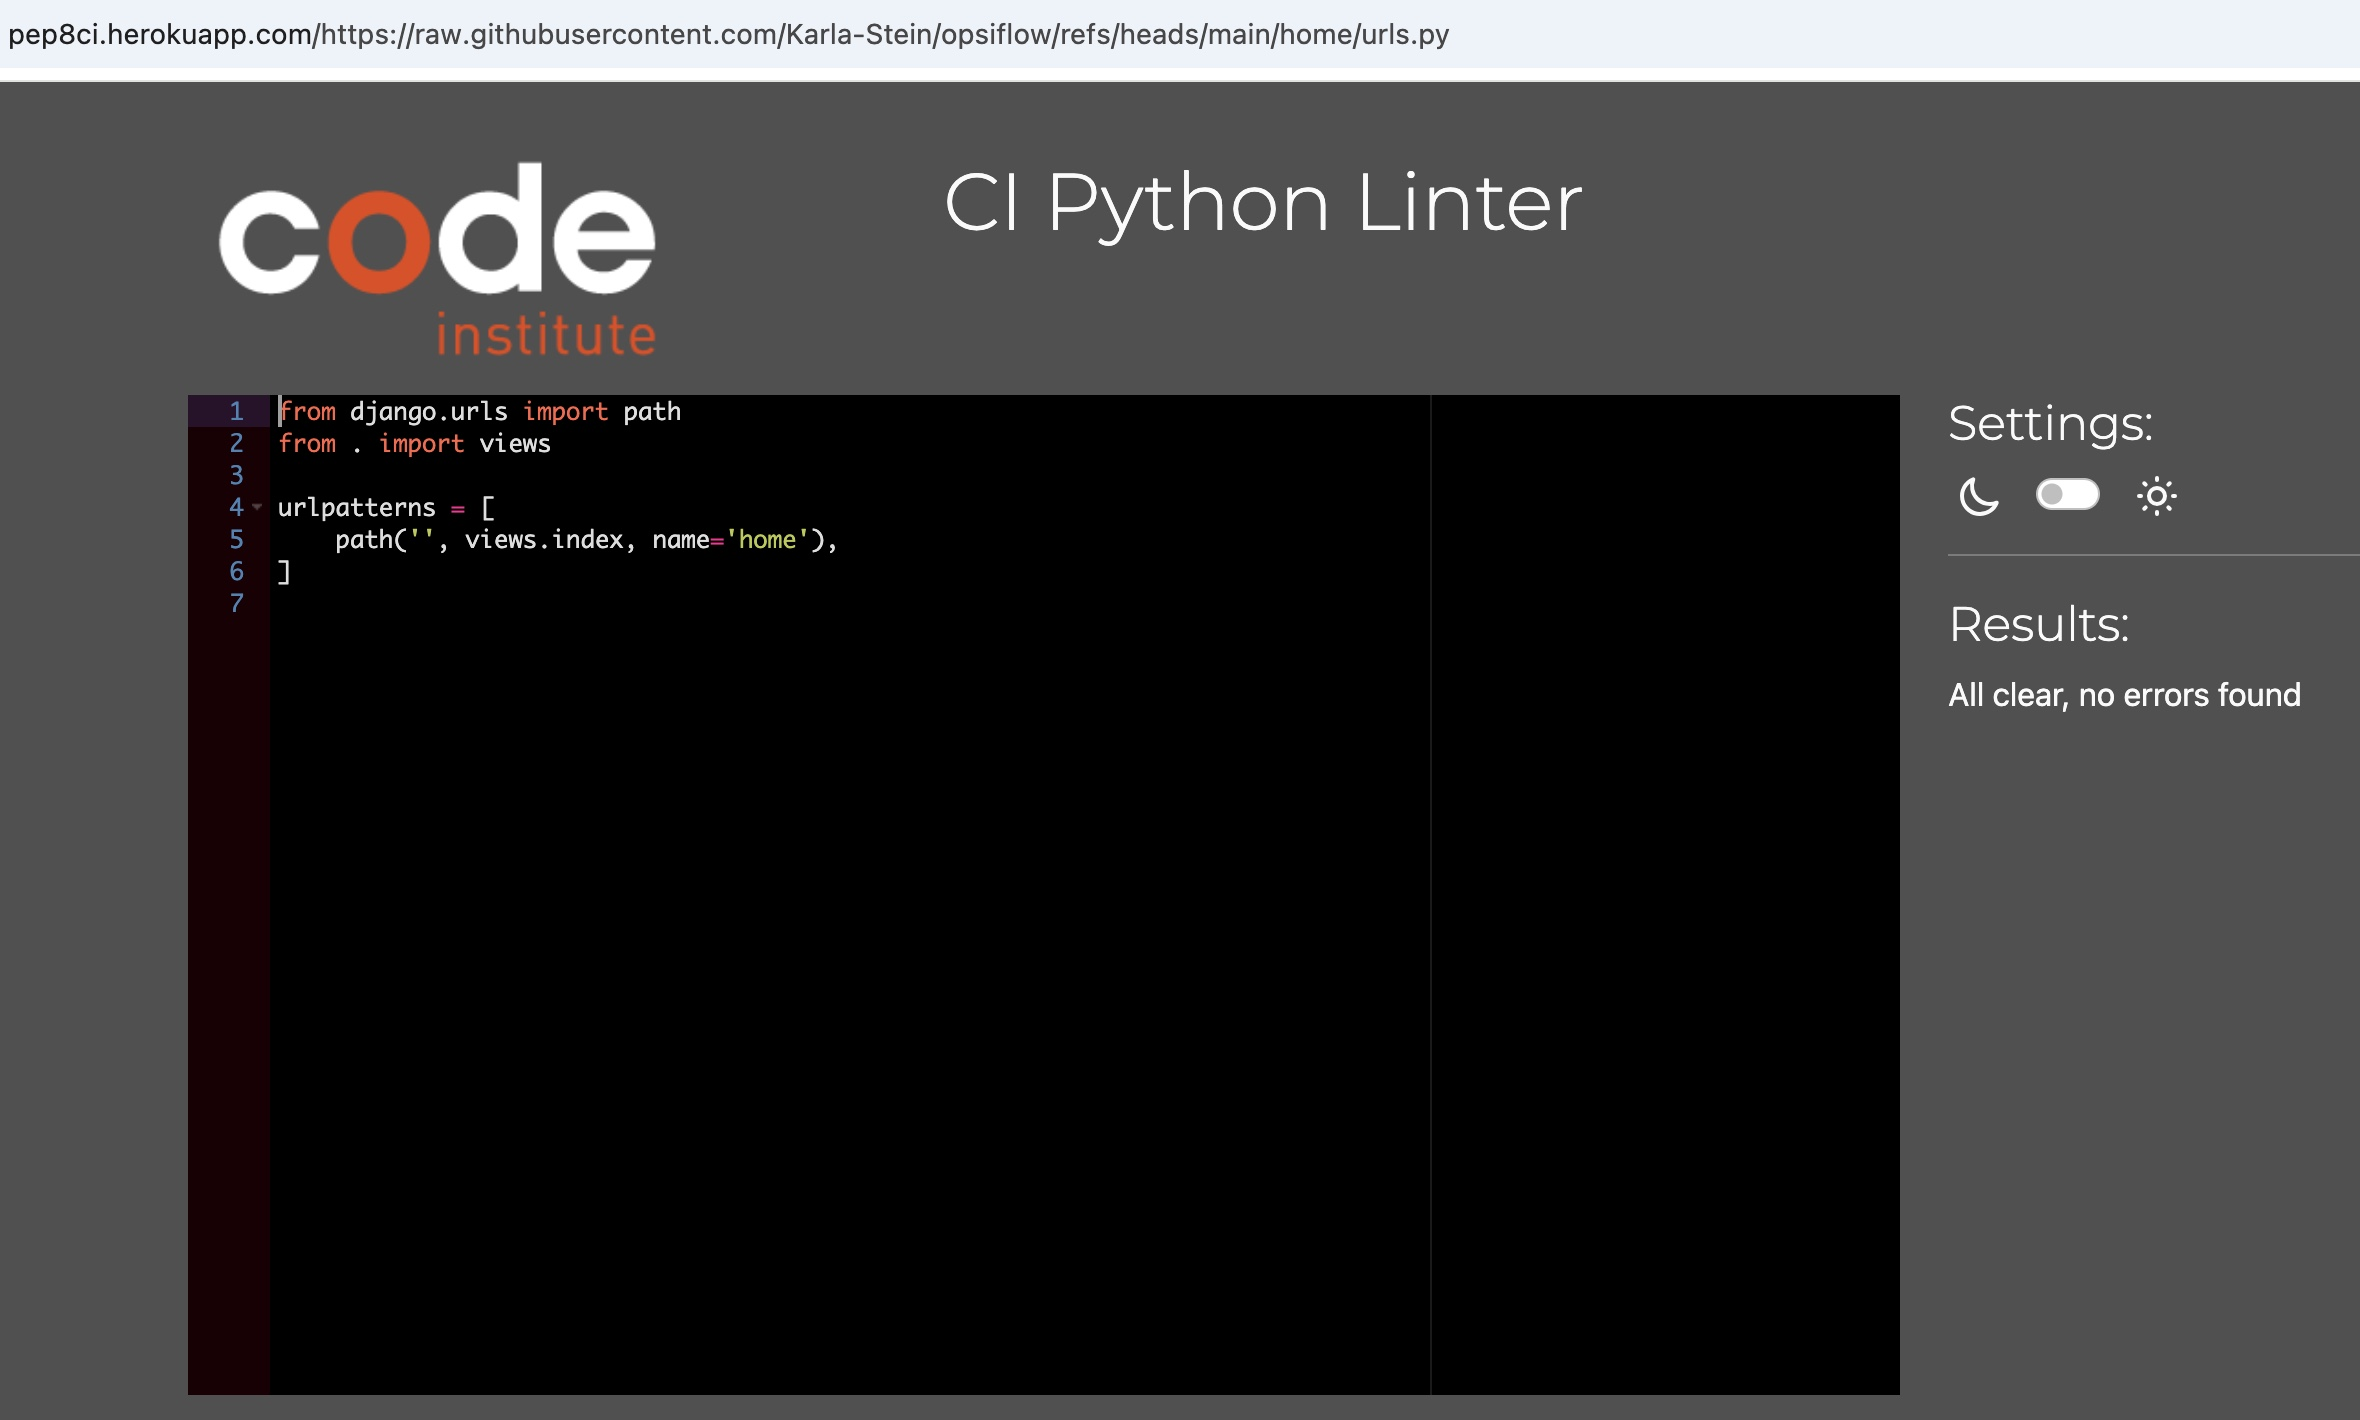
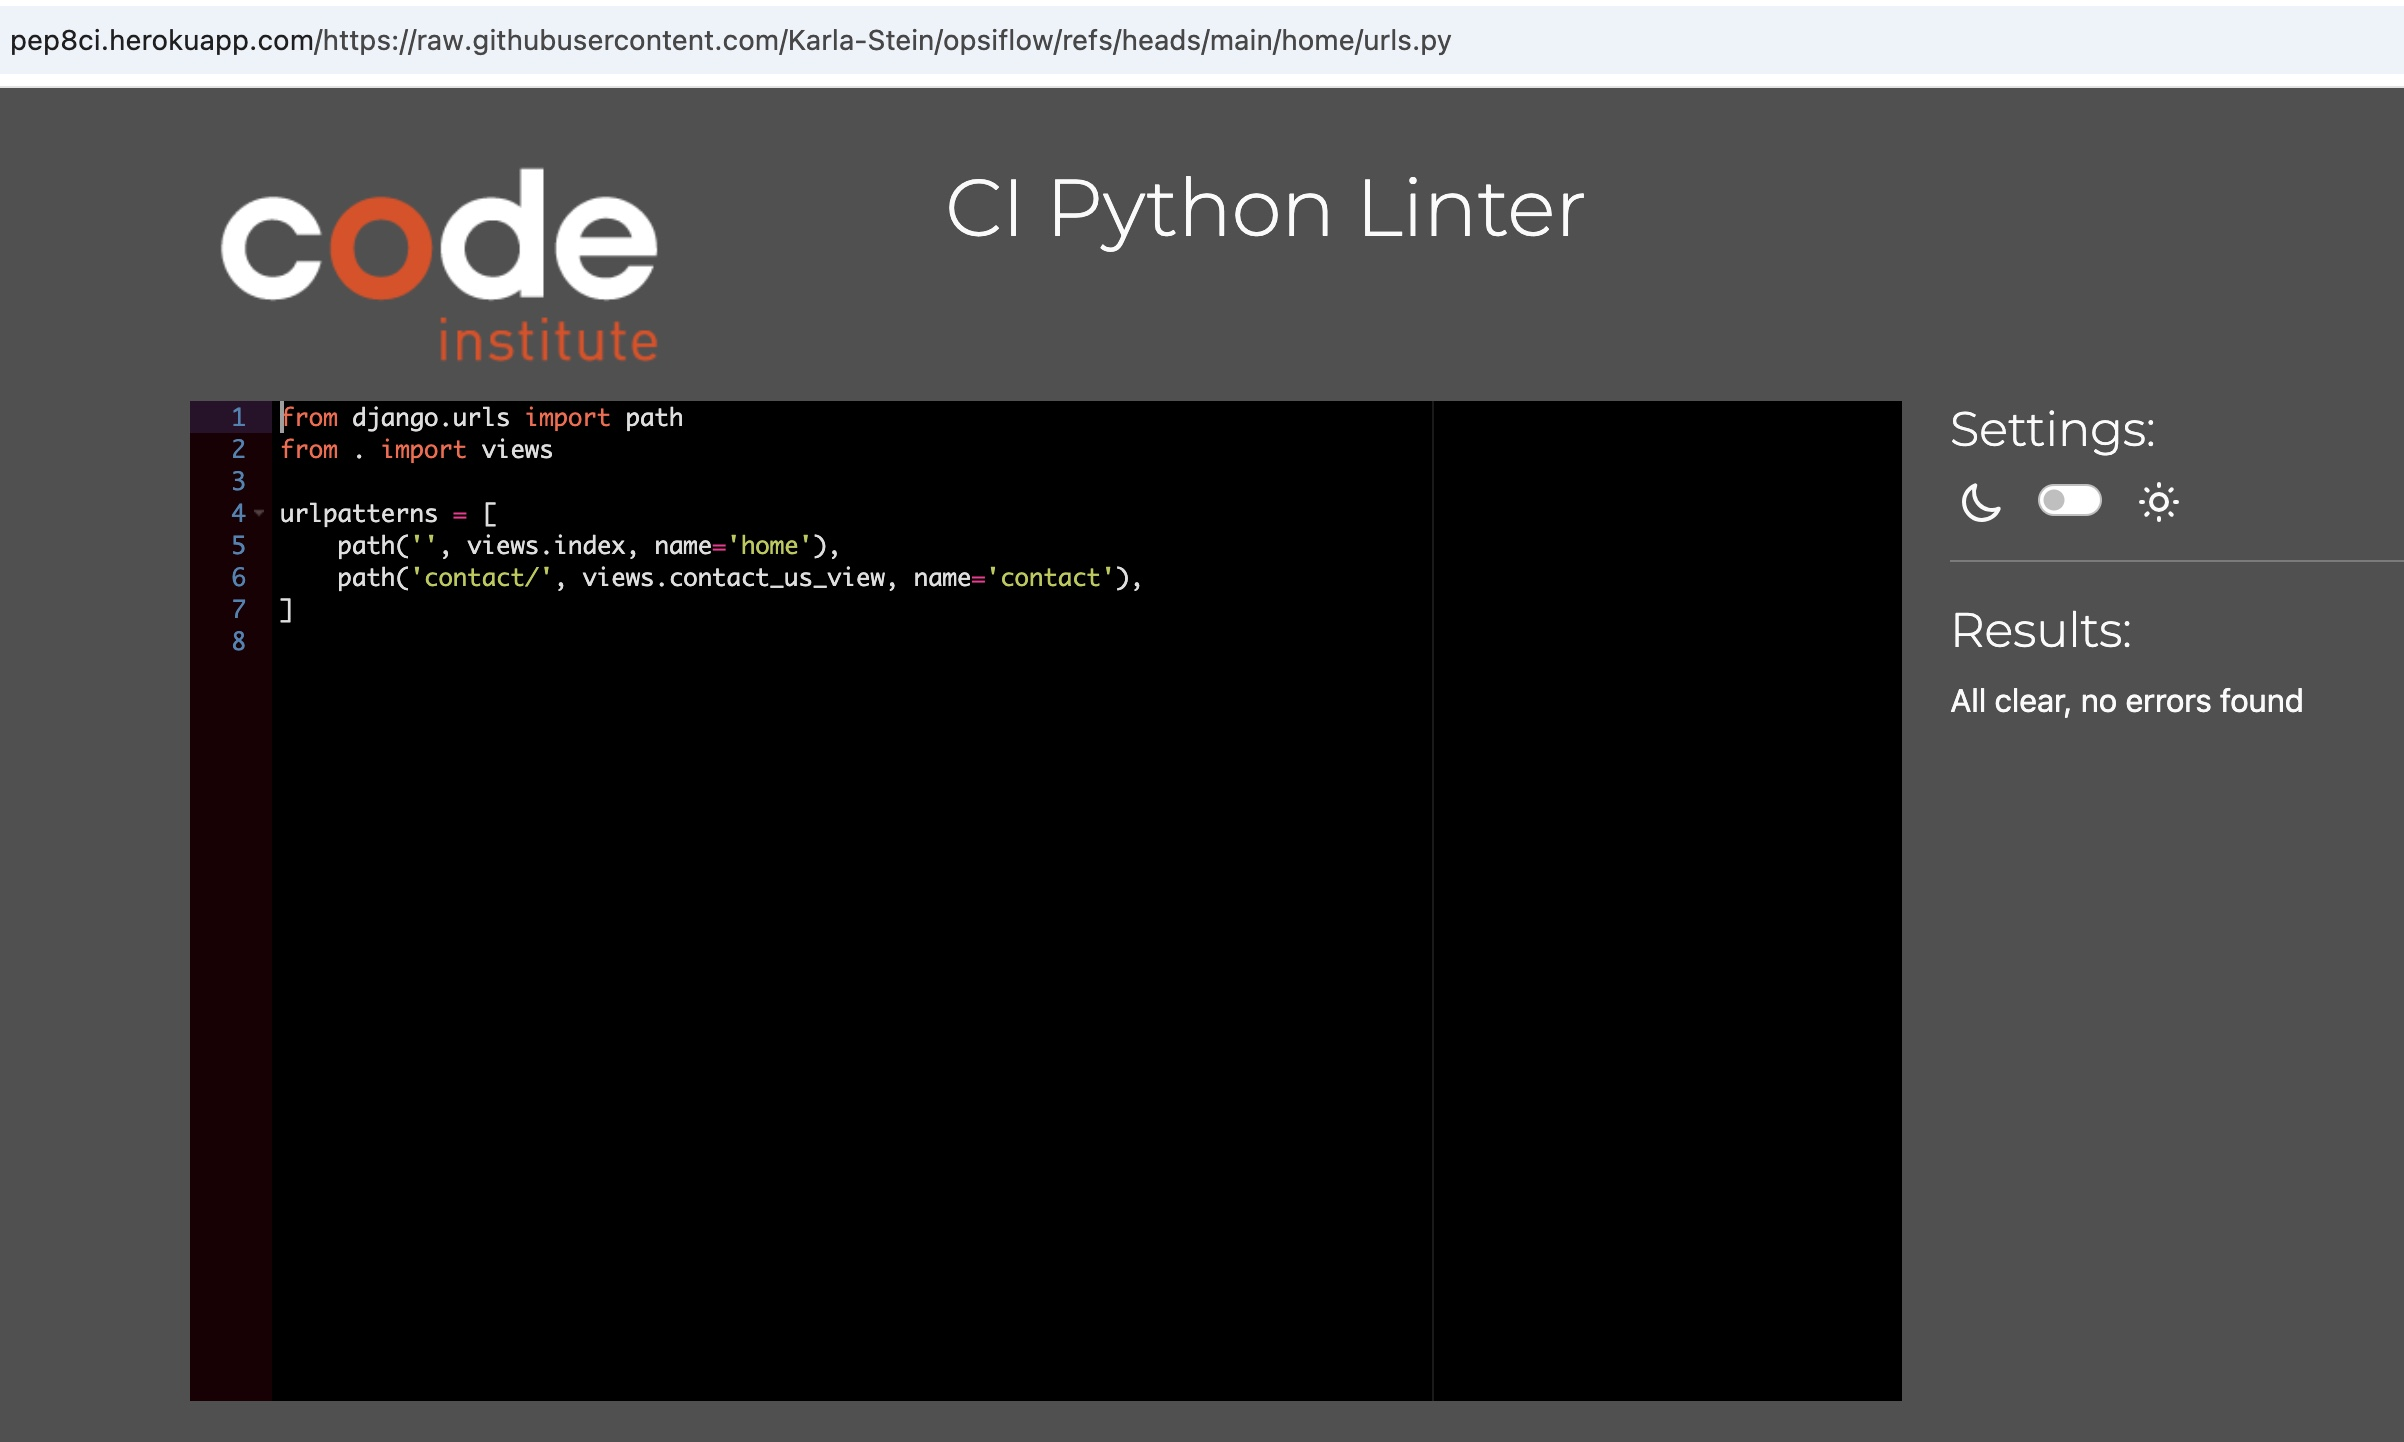
Add python validation and fix linter warnings

diff --git a/home/forms.py b/home/forms.py
@@ -1,13 +1,13 @@
-from django import forms 
-from django.forms.fields import EmailField 
-from django.forms.widgets import Textarea 
+from django import forms
+from django.forms.fields import EmailField
+from django.forms.widgets import Textarea
 
-class ContactUsForm(forms.Form): 
-   """
-   A form to collect user messages.
-   """
-   name = forms.CharField(max_length=100) 
-   email = forms.EmailField() 
-   subject = forms.CharField(max_length=100) 
-   message = forms.CharField(widget=forms.Textarea)
 
+class ContactUsForm(forms.Form):
+    """
+    A form to collect user messages.
+    """
+    name = forms.CharField(max_length=100)
+    email = forms.EmailField()
+    subject = forms.CharField(max_length=100)
+    message = forms.CharField(widget=forms.Textarea)

diff --git a/home/test_views.py b/home/test_views.py
@@ -15,7 +15,7 @@ class TestIndex(TestCase):
         self.assertEqual(response.status_code, 200, msg="Status code not 200")
         self.assertTemplateUsed(response,
                                 'home/index.html')
-        
+
 
 class TestContactUs(TestCase):
     """
@@ -33,13 +33,15 @@ class TestContactUs(TestCase):
         self.assertTemplateUsed(response,
                                 'home/contact.html')
 
-    @patch('home.views.resend.Emails.send')  
+    @patch('home.views.resend.Emails.send')
     def test_contact_us_view_sends_email_to_owner(self, mock_send):
         """
-        Test that the user recievs the feedback message after the email was sent.
+        Test that the user recievs the feedback message
+        after the email was sent.
         """
 
-        # once the form has been validated then the form data are stored in cleaned_data in a key-value pair
+        # once the form has been validated then the form data are
+        # stored in cleaned_data in a key-value pair
         cleaned_data = {
             'name': 'Alice',
             'email': '[email redacted]',
@@ -49,10 +51,11 @@ class TestContactUs(TestCase):
 
         response = self.client.post(reverse(
             'contact'), data=cleaned_data)
-        
+
         mock_send.assert_called_once()
 
-        self.assertEqual(response.status_code, 302, msg='Status code is not 302')
+        self.assertEqual(response.status_code, 302,
+                         msg='Status code is not 302')
 
         # mock_send.call_args stores the arguments that where
         # passed to resend.Emails.send().

diff --git a/TESTING.md b/TESTING.md
@@ -75,9 +75,13 @@ I have used the recommended [PEP8 CI Python Linter](https://pep8ci.herokuapp.com
 | checkout | [views.py](https://github.com/Karla-Stein/opsiflow/blob/main/checkout/views.py) | [PEP8 CI Link](https://pep8ci.herokuapp.com/https://raw.githubusercontent.com/Karla-Stein/opsiflow/refs/heads/main/checkout/views.py) | ![screenshot](documentation/validation/py-checkout-views.jpeg) | 
 | checkout | [webhook_handler.py](https://github.com/Karla-Stein/opsiflow/blob/main/checkout/webhook_handler.py) | [PEP8 CI Link](https://pep8ci.herokuapp.com/https://raw.githubusercontent.com/Karla-Stein/opsiflow/refs/heads/main/checkout/webhook_handler.py) | ![screenshot](documentation/validation/py-checkout-webhook-handler.jpeg) | 
 | checkout | [webhooks.py](https://github.com/Karla-Stein/opsiflow/blob/main/checkout/webhooks.py) | [PEP8 CI Link](https://pep8ci.herokuapp.com/https://raw.githubusercontent.com/Karla-Stein/opsiflow/refs/heads/main/checkout/webhooks.py) | ![screenshot](documentation/validation/py-checkout-webhooks.jpeg) | 
+
 | home | [test_views.py](https://github.com/Karla-Stein/opsiflow/blob/main/home/test_views.py) | [PEP8 CI Link](https://pep8ci.herokuapp.com/https://raw.githubusercontent.com/Karla-Stein/opsiflow/refs/heads/main/home/test_views.py) | ![screenshot](documentation/validation/py-home-test-views.jpeg) |  
+
 | home | [urls.py](https://github.com/Karla-Stein/opsiflow/blob/main/home/urls.py) | [PEP8 CI Link](https://pep8ci.herokuapp.com/https://raw.githubusercontent.com/Karla-Stein/opsiflow/refs/heads/main/home/urls.py) | ![screenshot](documentation/validation/py-home-urls.jpeg) | 
+
 | home | [views.py](https://github.com/Karla-Stein/opsiflow/blob/main/home/views.py) | [PEP8 CI Link](https://pep8ci.herokuapp.com/https://raw.githubusercontent.com/Karla-Stein/opsiflow/refs/heads/main/home/views.py) | ![screenshot](documentation/validation/py-home-views.jpeg) |  
+
 | opsiflow | [settings.py](https://github.com/Karla-Stein/opsiflow/blob/main/opsiflow/settings.py) | [PEP8 CI Link](https://pep8ci.herokuapp.com/https://raw.githubusercontent.com/Karla-Stein/opsiflow/refs/heads/main/opsiflow/settings.py) | ![screenshot](documentation/validation/py-opsiflow-settings.jpeg) |  
 | opsiflow | [urls.py](https://github.com/Karla-Stein/opsiflow/blob/main/opsiflow/urls.py) | [PEP8 CI Link](https://pep8ci.herokuapp.com/https://raw.githubusercontent.com/Karla-Stein/opsiflow/refs/heads/main/opsiflow/urls.py) | ![screenshot](documentation/validation/py-opsiflow-urls.jpeg) |  
 | products | [admin.py](https://github.com/Karla-Stein/opsiflow/blob/main/products/admin.py) | [PEP8 CI Link](https://pep8ci.herokuapp.com/https://raw.githubusercontent.com/Karla-Stein/opsiflow/refs/heads/main/products/admin.py) | ![screenshot](documentation/validation/py-products-admin.jpeg) | 